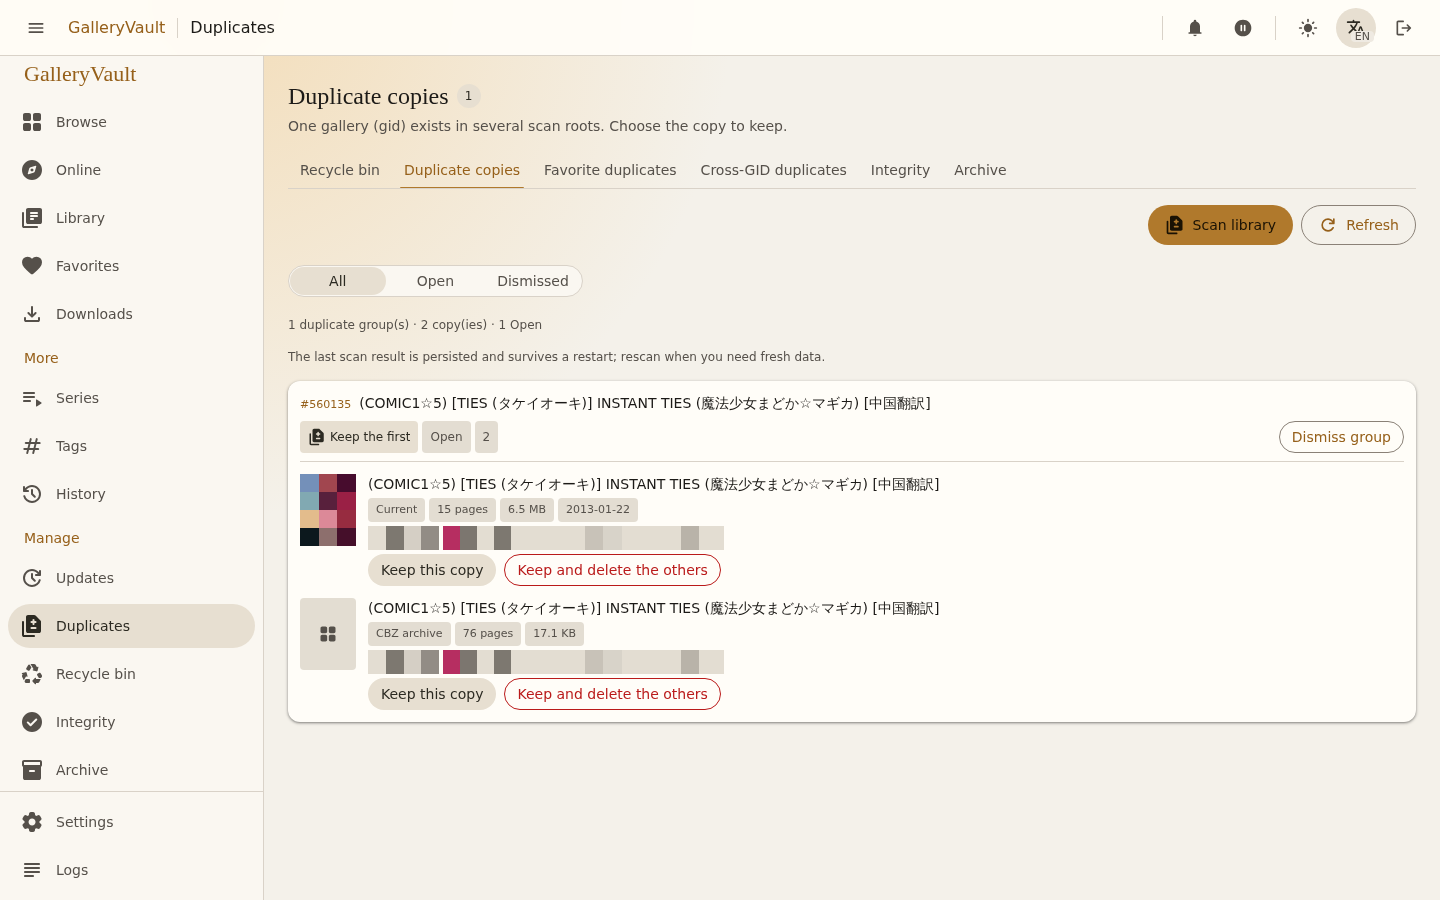
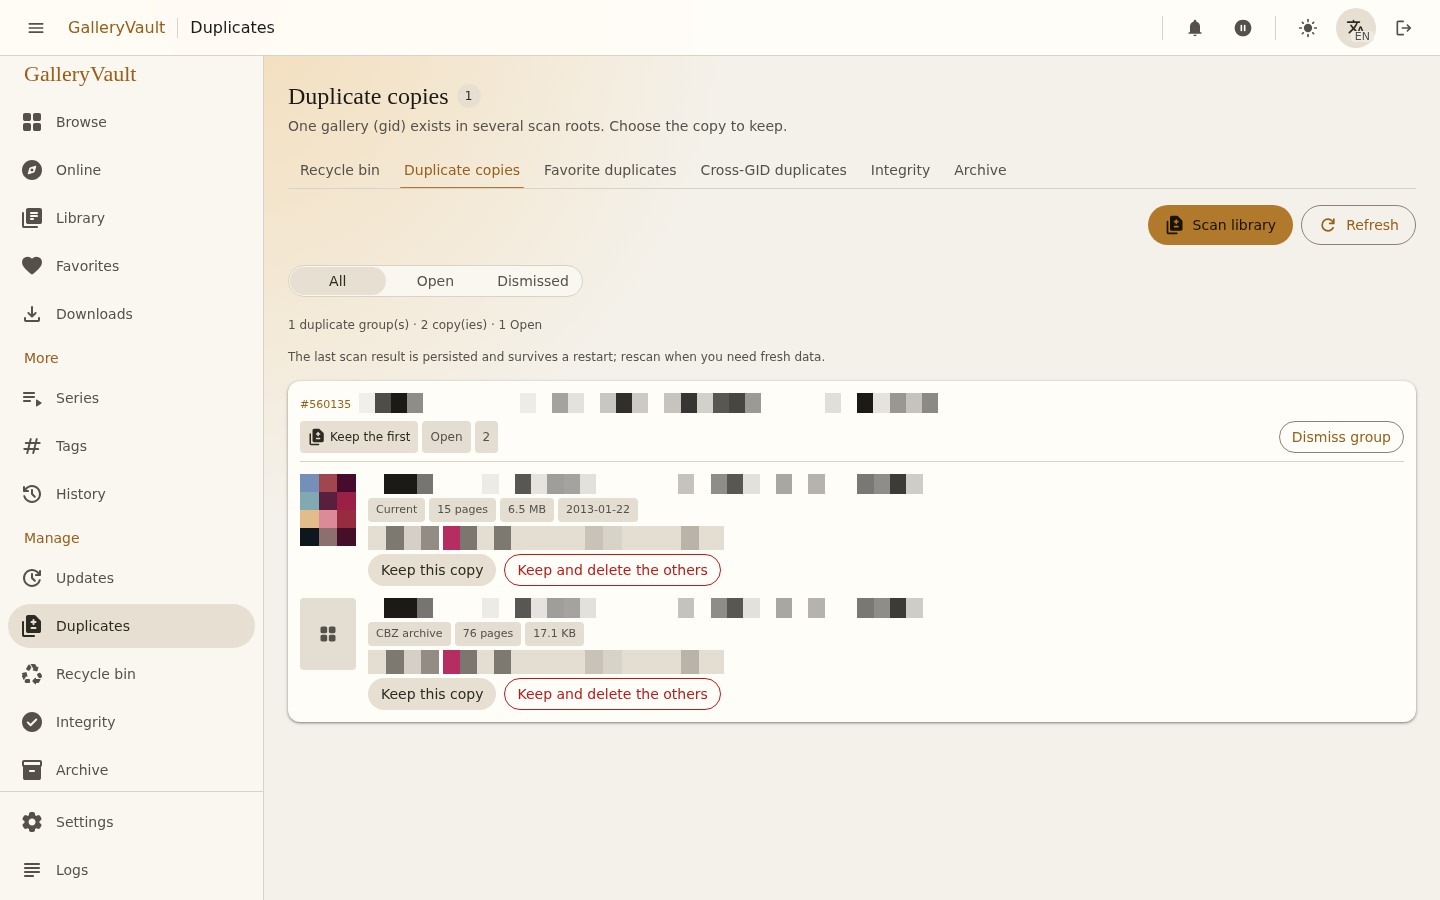
docs(screenshots): 返工——打码收窄/纯色遮挡/生产重拍/标题选择器补齐
- logs: 只打任务名/日志消息，保留标题、筛选、表头、级别、时间戳（原过度打码已修）
- reader: 整页图片改为纯色块遮挡（16px 马赛克人物轮廓仍可辨）
- series/updates/recycle/integrity/archive: 改用生产 Web UI 只读重拍（series/updates 现含真实数据）
- 补齐标题选择器：series 组名(h2.group__title)、updates 标题、duplicates 组/副本标题、archive 条目名
- README: fav_dedupe_*.png 引用改为 duplicates_*.png

diff --git a/README.en.md b/README.en.md
@@ -35,7 +35,7 @@ Mount Ehviewer export directories and browse them in the browser. Renaming or re
 <p align="center">
   <img src="docs/screenshots/library_en.png" alt="Library" width="270">
   <img src="docs/screenshots/reader_en.png" alt="Reader" width="270">
-  <img src="docs/screenshots/fav_dedupe_en.png" alt="Favorite duplicates" width="270">
+  <img src="docs/screenshots/duplicates_en.png" alt="Duplicates" width="270">
 </p>
 
 More screenshots: [Wiki · Screenshots](https://github.com/ResidualBlood/galleryvault/wiki/Screenshots-EN)

diff --git a/README.md b/README.md
@@ -35,7 +35,7 @@
 <p align="center">
   <img src="docs/screenshots/library_zh.png" alt="画廊库" width="270">
   <img src="docs/screenshots/reader_zh.png" alt="阅读器" width="270">
-  <img src="docs/screenshots/fav_dedupe_zh.png" alt="收藏夹查重" width="270">
+  <img src="docs/screenshots/duplicates_zh.png" alt="查重" width="270">
 </p>
 
 更多截图：[Wiki · 界面截图](https://github.com/ResidualBlood/galleryvault/wiki/Screenshots)
